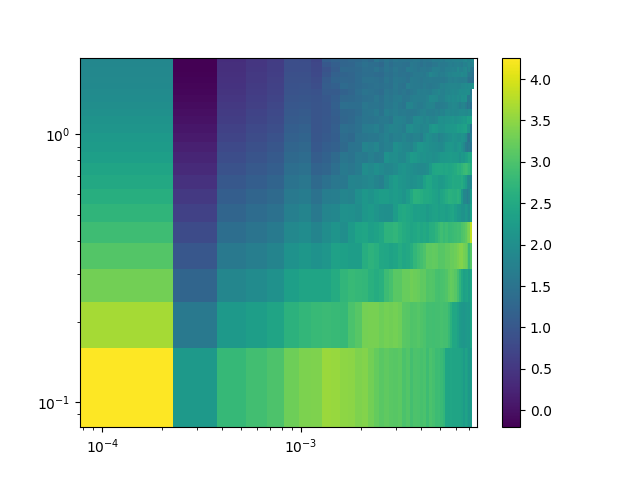
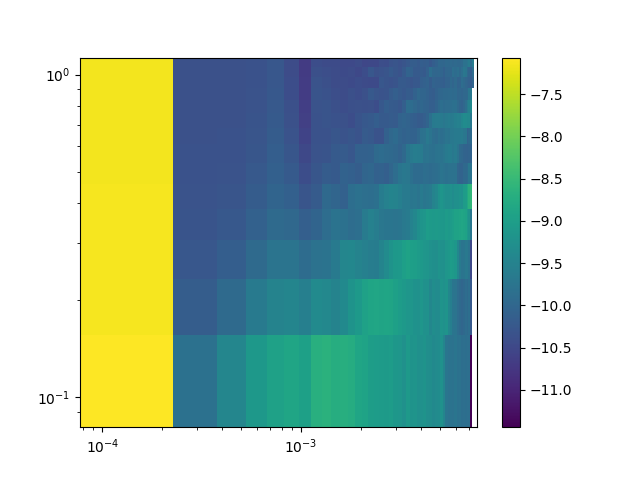
Changed the unit conversion. Got rid of A_eff

diff --git a/py21cmmc_fg/core.py b/py21cmmc_fg/core.py
@@ -81,8 +81,6 @@ class CoreForegrounds:
             ctx.get('output').redshifts_slices = redshifts
         else:
             # Replace the EoR lightcone with the new lightcone
-            # Make sure we convert from mK to Jy before summing!
-            eor_lightcone *= self.conversion_factor_K_to_Jy()
             ctx.get("output").lightcone_box += fg_lightcone
 
         ctx.add("frequencies", frequencies)
@@ -132,10 +130,7 @@ class CoreForegrounds:
             # We add it here, because it's easier to add in mK
             lightcone += self.diffuse(frequencies, sky_cells, sky_size, **self.diffuse_params)
 
-        # Change the units of brightness temperature from mK to Jy/sr
-        lightcone *= self.conversion_factor_K_to_Jy()
-
-        # Generate the point sources foregrounds.
+        # Generate the point sources foregrounds in mK and add to lightcone
         if self.add_point_sources:
             lightcone += self.point_sources(
                     frequencies=frequencies, sky_cells = sky_cells, sky_size=sky_size, **self.pt_source_params
@@ -191,11 +186,12 @@ class CoreForegrounds:
         S_0 = np.histogram2d(pos[:,0], pos[:,1], bins = np.arange(0, sky_cells+1, 1), weights = S_0)
         S_0 = S_0[0]
 
-        ## Find the fluxes at different frequencies based on spectral index
+        ## Find the fluxes at different frequencies based on spectral index and divide by cell area
         sky = np.outer(S_0, (frequencies/f0)**(-gamma)).reshape((np.shape(S_0)[0],np.shape(S_0)[0],len(frequencies)))
-
-        # Divide by area of each sky cell; Jy/sr
         sky /= (sky_size / sky_cells)**2
+
+        # Change the unit from Jy/sr to mK
+        sky /= CoreInstrumental.conversion_factor_K_to_Jy(frequencies)
 
         return sky
 
@@ -254,35 +250,6 @@ class CoreForegrounds:
                 Tbins[:, :, i] = Tbar[i]
 
         return Tbins
-
-    @staticmethod
-    def conversion_factor_K_to_Jy(nu=None):
-        """
-
-        Parameters
-        ----------
-        nu : float array, optional
-            The frequencies of the observation
-
-        Returns
-        -------
-        conversion_factor : float or array
-            The conversion factor(s) (per frequency) which convert temperature in Kelvin to flux density in Jy.
-
-        """
-        # Can either do it with the beam or without the beam (frequency dependent)
-        if nu is None:
-            # TODO: unfortunately, this is instrument-dependent and so should really go in the instrumental core
-            A_eff = 20 * un.m ** 2
-
-            flux_density = (2 * 1e26 * const.k_B * 1e-3 * un.K / (A_eff * (1 * un.Hz) * (1 * un.s))).to(
-                un.W / (un.Hz * un.m ** 2))
-
-        else:
-            flux_density = (2 * const.k_B * 1e-3 * un.K / (((const.c) / (nu.to(1 / un.s))) ** 2) * 1e26).to(
-                un.W / (un.Hz * un.m ** 2))
-
-        return flux_density.value
 
 
 class CoreInstrumental:
@@ -361,7 +328,7 @@ class CoreInstrumental:
         sky_size = ctx.get("sky_size", CoreForegrounds.get_sky_size(boxsize, redshifts, cosmo))
 
         vis = self.add_instrument(lightcone, frequencies, sky_size)
-
+        
         ctx.add("visibilities", vis)
         ctx.add("baselines", self.baselines)
         ctx.add("frequencies", self.instrumental_frequencies)
@@ -370,10 +337,14 @@ class CoreInstrumental:
         # Number of 2D cells in sky array
         sky_cells = np.shape(lightcone)[0]
         
-        print("loaded lightcone", lightcone.max())
-        # Add the beam attenuation
-        beam_sky = lightcone * self.beam(frequencies, sky_cells, sky_size, self.tile_diameter)
-        print("attenuated sky", beam_sky.max())
+        # Find beam attenuation
+        attenuation = self.beam(frequencies, sky_cells, sky_size, self.tile_diameter)
+        beam_area = np.sum(attenuation, axis=(0,1))
+
+        # Change the units of lightcone from mK to Jy
+        beam_sky = lightcone * self.conversion_factor_K_to_Jy(frequencies, beam_area) * attenuation
+                                                               
+        print("attenuated sky")
         # Fourier transform image plane to UV plane.
         uvplane, uv = self.image_to_uv(beam_sky, sky_size)
 
@@ -390,7 +361,7 @@ class CoreInstrumental:
 
         # Just in case we forget, now the frequencies are all in terms of the instrumental frequencies.
         frequencies = self.instrumental_frequencies
-
+        
         # Add thermal noise
         visibilities = self.add_thermal_noise(visibilities, frequencies, self.integration_time, Tsys=self.Tsys)
 
@@ -429,6 +400,33 @@ class CoreInstrumental:
         
         return np.exp(np.outer(-(L ** 2 + M ** 2), 1. / sigma ** 2).reshape((ncells, ncells, len(frequencies))))
 
+    @staticmethod
+    def conversion_factor_K_to_Jy(nu, omega=None):
+        """
+
+        Parameters
+        ----------
+        nu : float array, optional
+            The frequencies of the observation
+        
+        omega: float or array
+            The area of the observation or the beam
+
+        Returns
+        -------
+        conversion_factor : float or array
+            The conversion factor(s) (per frequency) which convert temperature in Kelvin to flux density in Jy.
+
+        """
+        if omega is None:
+            flux_density = (2 * const.k_B * 1e-3 * un.K / (((const.c) / (nu*(1 / un.s))) ** 2) * 1e26).to(
+                un.W / (un.Hz * un.m ** 2))
+        else:
+            flux_density = (2 * const.k_B * 1e-3 * un.K / (((const.c) / (nu*(1 / un.s))) ** 2) * 1e26).to(
+                un.W / (un.Hz * un.m ** 2)) / omega
+
+        return flux_density.value
+    
     @staticmethod
     def image_to_uv(sky, L):
         """

diff --git a/py21cmmc_fg/likelihood.py b/py21cmmc_fg/likelihood.py
@@ -18,7 +18,7 @@ from py21cmmc.likelihood import LikelihoodBase
 from py21cmmc.core import Core21cmFastModule
 from cosmoHammer.ChainContext import ChainContext
 from cosmoHammer.util import Params
-from .core import CoreForegrounds
+from .core import CoreInstrumental
 
 
 class LikelihoodForeground2D(LikelihoodBase):
@@ -121,6 +121,7 @@ class LikelihoodForeground2D(LikelihoodBase):
         # Read in data from ctx
         visibilities = ctx.get("visibilities")
         baselines = ctx.get('baselines')
+        sigma = ctx.get("sigma")
         frequencies = ctx.get("frequencies")
         n_uv = self.n_uv or ctx.get("output").lightcone_box.shape[0]
         cosmo = ctx.get("output").cosmo
@@ -207,6 +208,13 @@ class LikelihoodForeground2D(LikelihoodBase):
         # P /= self.volume(z_mid, nu_min, nu_max, cosmo)
 
         return P, [radial_bins, coords[2]], var
+
+        # Convert the units of the power into Mpc**6
+        P /= ((CoreForegrounds.conversion_factor_K_to_Jy() * self.hz_to_mpc(nu_min, nu_max) * self.sr_to_mpc2(z_mid)) ** 2).value
+        P /= self.volume(z_mid, nu_min, nu_max)
+
+        # TODO: In here we also need to calculate the VARIANCE of the power!!
+        return P, [(radial_bins[1:]+radial_bins[:-1])/2, coords[2].value]
 
     # def suppressedFg_1DPower(self, bins = 20):
     #
@@ -340,7 +348,7 @@ class LikelihoodForeground2D(LikelihoodBase):
         return cosmo.comoving_distance(z) / (1 * un.sr)
 
     @staticmethod
-    def volume(z_mid, nu_min, nu_max, cosmo, A_eff=20):
+    def volume(z_mid, nu_min, nu_max, A_eff=20):
         """
         Calculate the effective volume of an observation in Mpc**3, when co-ordinates are provided in Hz.
 
@@ -365,13 +373,12 @@ class LikelihoodForeground2D(LikelihoodBase):
         How is this actually calculated? What assumptions are made?
         """
         # TODO: fix the notes in the docs above.
-        # TODO: the taper probably should be applied in here.
 
         diff_nu = nu_max - nu_min
 
         G_z = (cosmo.H0).to(un.m / (un.Mpc * un.s)) * 1420e6 * un.Hz * cosmo.efunc(z_mid) / (const.c * (1 + z_mid) ** 2)
 
-        Vol = const.c ** 2 / (A_eff * un.m ** 2 * nu_max * (1 / un.s) ** 2) * diff_nu * (
+        Vol = const.c ** 2 / (sigma * un.m ** 2 * nu_max * (1 / un.s) ** 2) * diff_nu * (
                     1 / un.s) * cosmo.comoving_distance([z_mid]) ** 2 / (G_z)
 
         return Vol.value

diff --git a/devel/test_covariance.py b/devel/test_covariance.py
@@ -53,7 +53,7 @@ fg_core(ctx)
 instr_core(ctx)
 
 p, k = lk.computePower(ctx)
-
+print(p)
 plt.imshow(np.log10(p), origin='lower', aspect='auto', extent=(k[0][0], k[0][-1], k[1][0], k[1][-1]))
 plt.xscale('log')
 plt.yscale('log')
